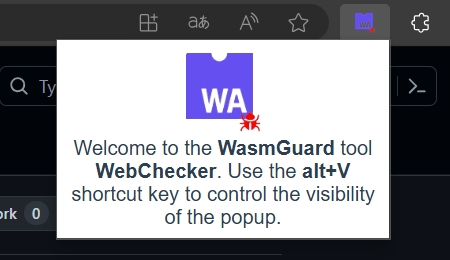
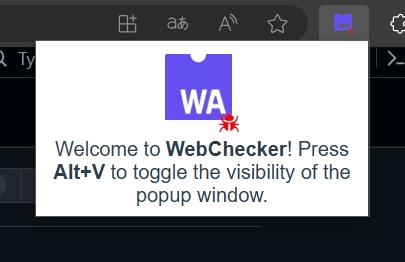
Update README.md

diff --git a/popup/src/App.vue b/popup/src/App.vue
@@ -2,7 +2,8 @@
   <div id="popup">
     <img alt="Vue logo" src="./assets/logo.png" class="logo" />
     <div class="hello">
-      <p>Welcome to the <span class="important">WasmGuard</span> tool <span class="important">WebChecker</span>. Use the <span class="important">alt+V</span> shortcut key to control the visibility of the popup.</p>
+      <p>Welcome to <span class="important">WebChecker</span>! Press <span class="important">Alt+V</span> to toggle the
+        visibility of the popup window.</p>
     </div>
   </div>
 </template>
@@ -15,7 +16,7 @@ export default {
   components: {
     HelloWorld,
   },
-  data(){
+  data() {
     return {
       tableData: [],
     }
@@ -32,13 +33,16 @@ export default {
   color: #2c3e50;
   margin-top: 10px;
 }
+
 .logo {
   width: 60px;
 }
+
 .hello {
   display: flex;
   justify-content: center;
 }
+
 .hello p {
   width: 250px;
   font-weight: 500;
@@ -46,6 +50,7 @@ export default {
   text-align: center;
   margin: 0;
 }
+
 .important {
   font-weight: 700;
 }
